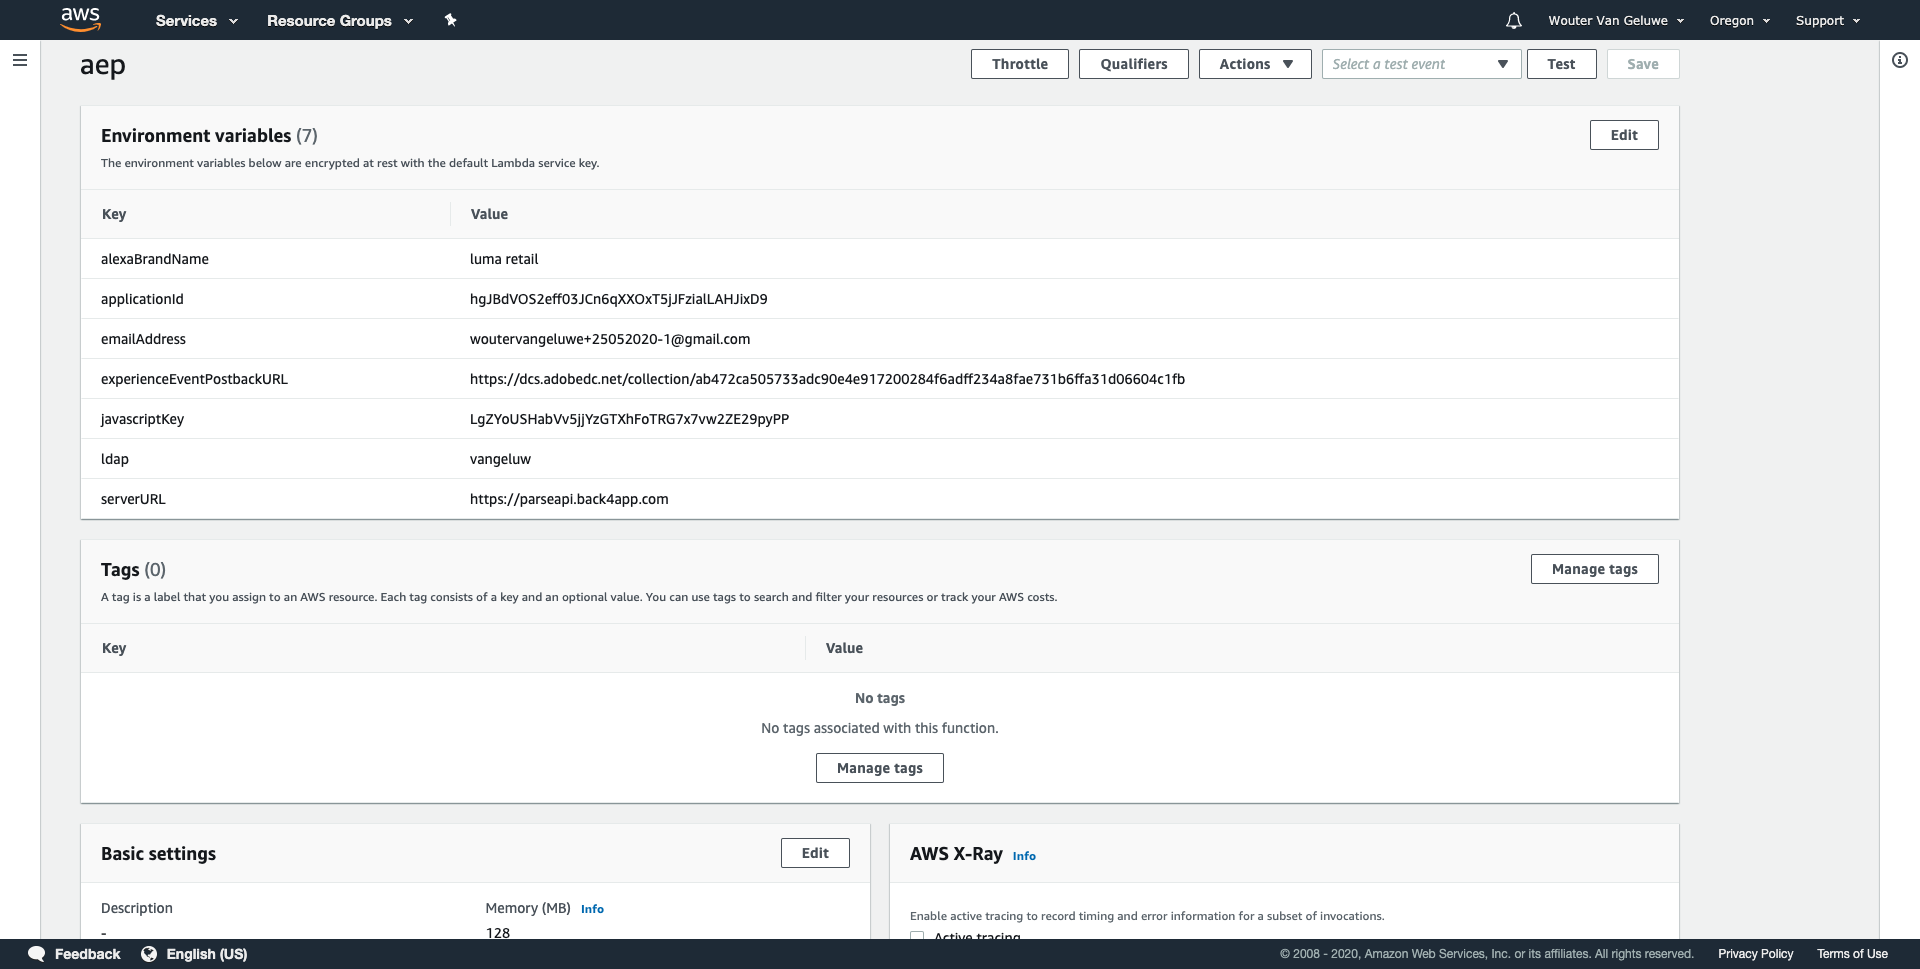
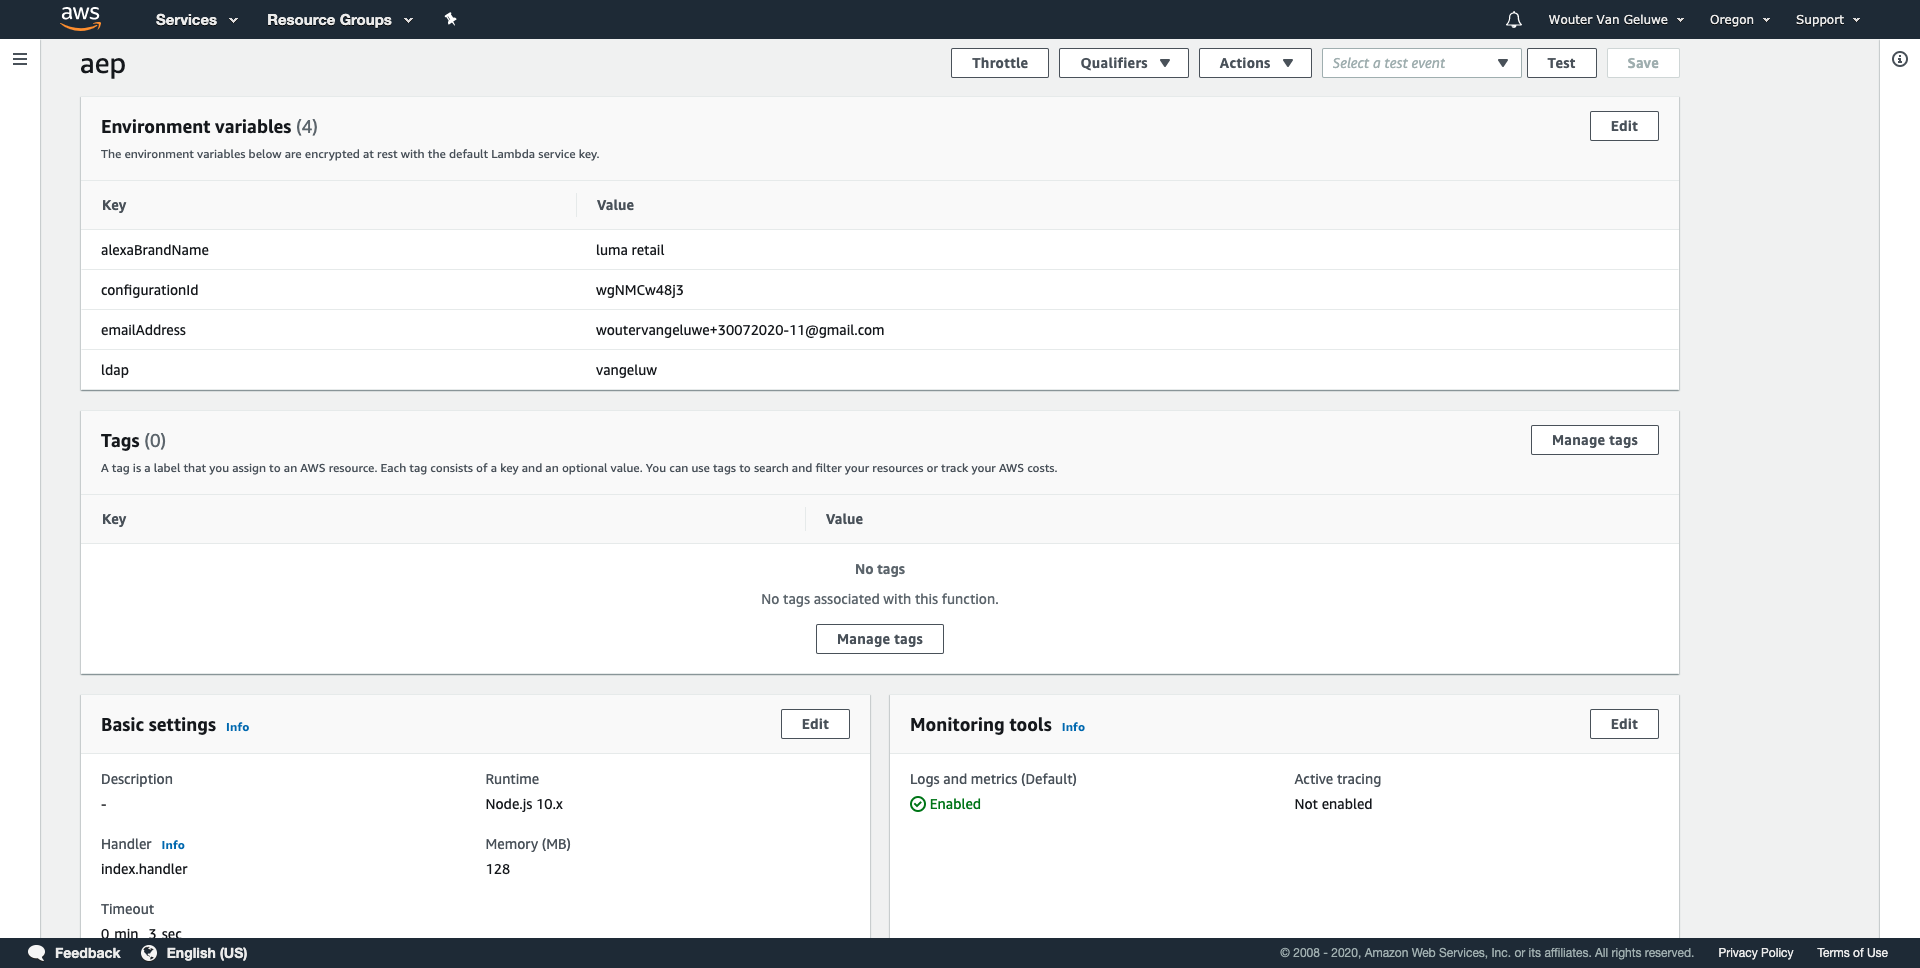
update to Module 4 - Alexa

diff --git a/help/tutorial-comprehensive-technical/modules/module4/ex2.md b/help/tutorial-comprehensive-technical/modules/module4/ex2.md
@@ -196,12 +196,9 @@ Continue in the **AEP** definition screen
 Key | Value
 ---------|----------
 **alexaBrandName** | **luma retail**
-**applicationId** | **--parseAppKey--**
 **emailAddress** | **rmaur@adobe.com**
-**experienceEventPostbackURL** | **--dcsInletId--**
-**javascriptKey** | **--parseJavaScriptKey--**
-**ldap** | **rmaur**
-**serverURL** | **https://parseapi.back4app.com**
+**ldap** | **--demoProfileLdap--**
+**configurationId** | **--configurationID--**
     
 Ensure you replace **alexaBrandName**, **ldap** and **emailAddress** with your specific configuration details.
 
